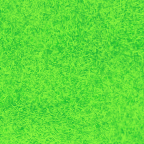
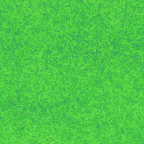
new unit images for peasant, archer, militia and pikeman; improved image for battering ram

diff --git a/src/display_common.c b/src/display_common.c
@@ -85,8 +85,7 @@ void if_load_images(void)
 	image_load_png(&image_iron, PREFIX_IMG "iron.png", 0);
 	image_load_png(&image_time, PREFIX_IMG "time.png", 0);
 
-	//image_load_png(&image_units[UnitPeasant], PREFIX_IMG "peasant.png", 0);
-	image_load_png(&image_units[UnitPeasant], PREFIX_IMG "peasant_.png", 0);
+	image_load_png(&image_units[UnitPeasant], PREFIX_IMG "peasant.png", 0);
 	image_load_png(&image_units[UnitMilitia], PREFIX_IMG "militia.png", 0);
 	image_load_png(&image_units[UnitPikeman], PREFIX_IMG "pikeman.png", 0);
 	image_load_png(&image_units[UnitArcher], PREFIX_IMG "archer.png", 0);
@@ -94,8 +93,7 @@ void if_load_images(void)
 	image_load_png(&image_units[UnitLightCavalry], PREFIX_IMG "light_cavalry.png", 0);
 	image_load_png(&image_units[UnitBatteringRam], PREFIX_IMG "battering_ram.png", 0);
 
-	//image_load_png(&image_units_mask[UnitPeasant], PREFIX_IMG "peasant.png", image_mask);
-	image_load_png(&image_units_mask[UnitPeasant], PREFIX_IMG "peasant_.png", image_mask);
+	image_load_png(&image_units_mask[UnitPeasant], PREFIX_IMG "peasant.png", image_mask);
 	image_load_png(&image_units_mask[UnitMilitia], PREFIX_IMG "militia.png", image_mask);
 	image_load_png(&image_units_mask[UnitPikeman], PREFIX_IMG "pikeman.png", image_mask);
 	image_load_png(&image_units_mask[UnitArcher], PREFIX_IMG "archer.png", image_mask);

diff --git a/src/display_battle.c b/src/display_battle.c
@@ -462,10 +462,9 @@ void if_battle(const void *argument, const struct game *game)
 	}*/
 
 #if defined(DEBUG)
-	size_t x, y;
-	for(y = 0; y < BATTLEFIELD_HEIGHT; ++y)
+	/*for(size_t y = 0; y < BATTLEFIELD_HEIGHT; ++y)
 	{
-		for(x = 0; x < BATTLEFIELD_WIDTH; ++x)
+		for(size_t x = 0; x < BATTLEFIELD_WIDTH; ++x)
 		{
 			char buffer[6], *end = buffer;
 			end = format_uint(end, x, 10);
@@ -473,6 +472,6 @@ void if_battle(const void *argument, const struct game *game)
 			end = format_uint(end, y, 10);
 			draw_string(buffer, end - buffer, BATTLE_X + x * object_group[Battlefield].width, BATTLE_Y + y * object_group[Battlefield].height, &font9, White);
 		}
-	}
+	}*/
 #endif
 }
